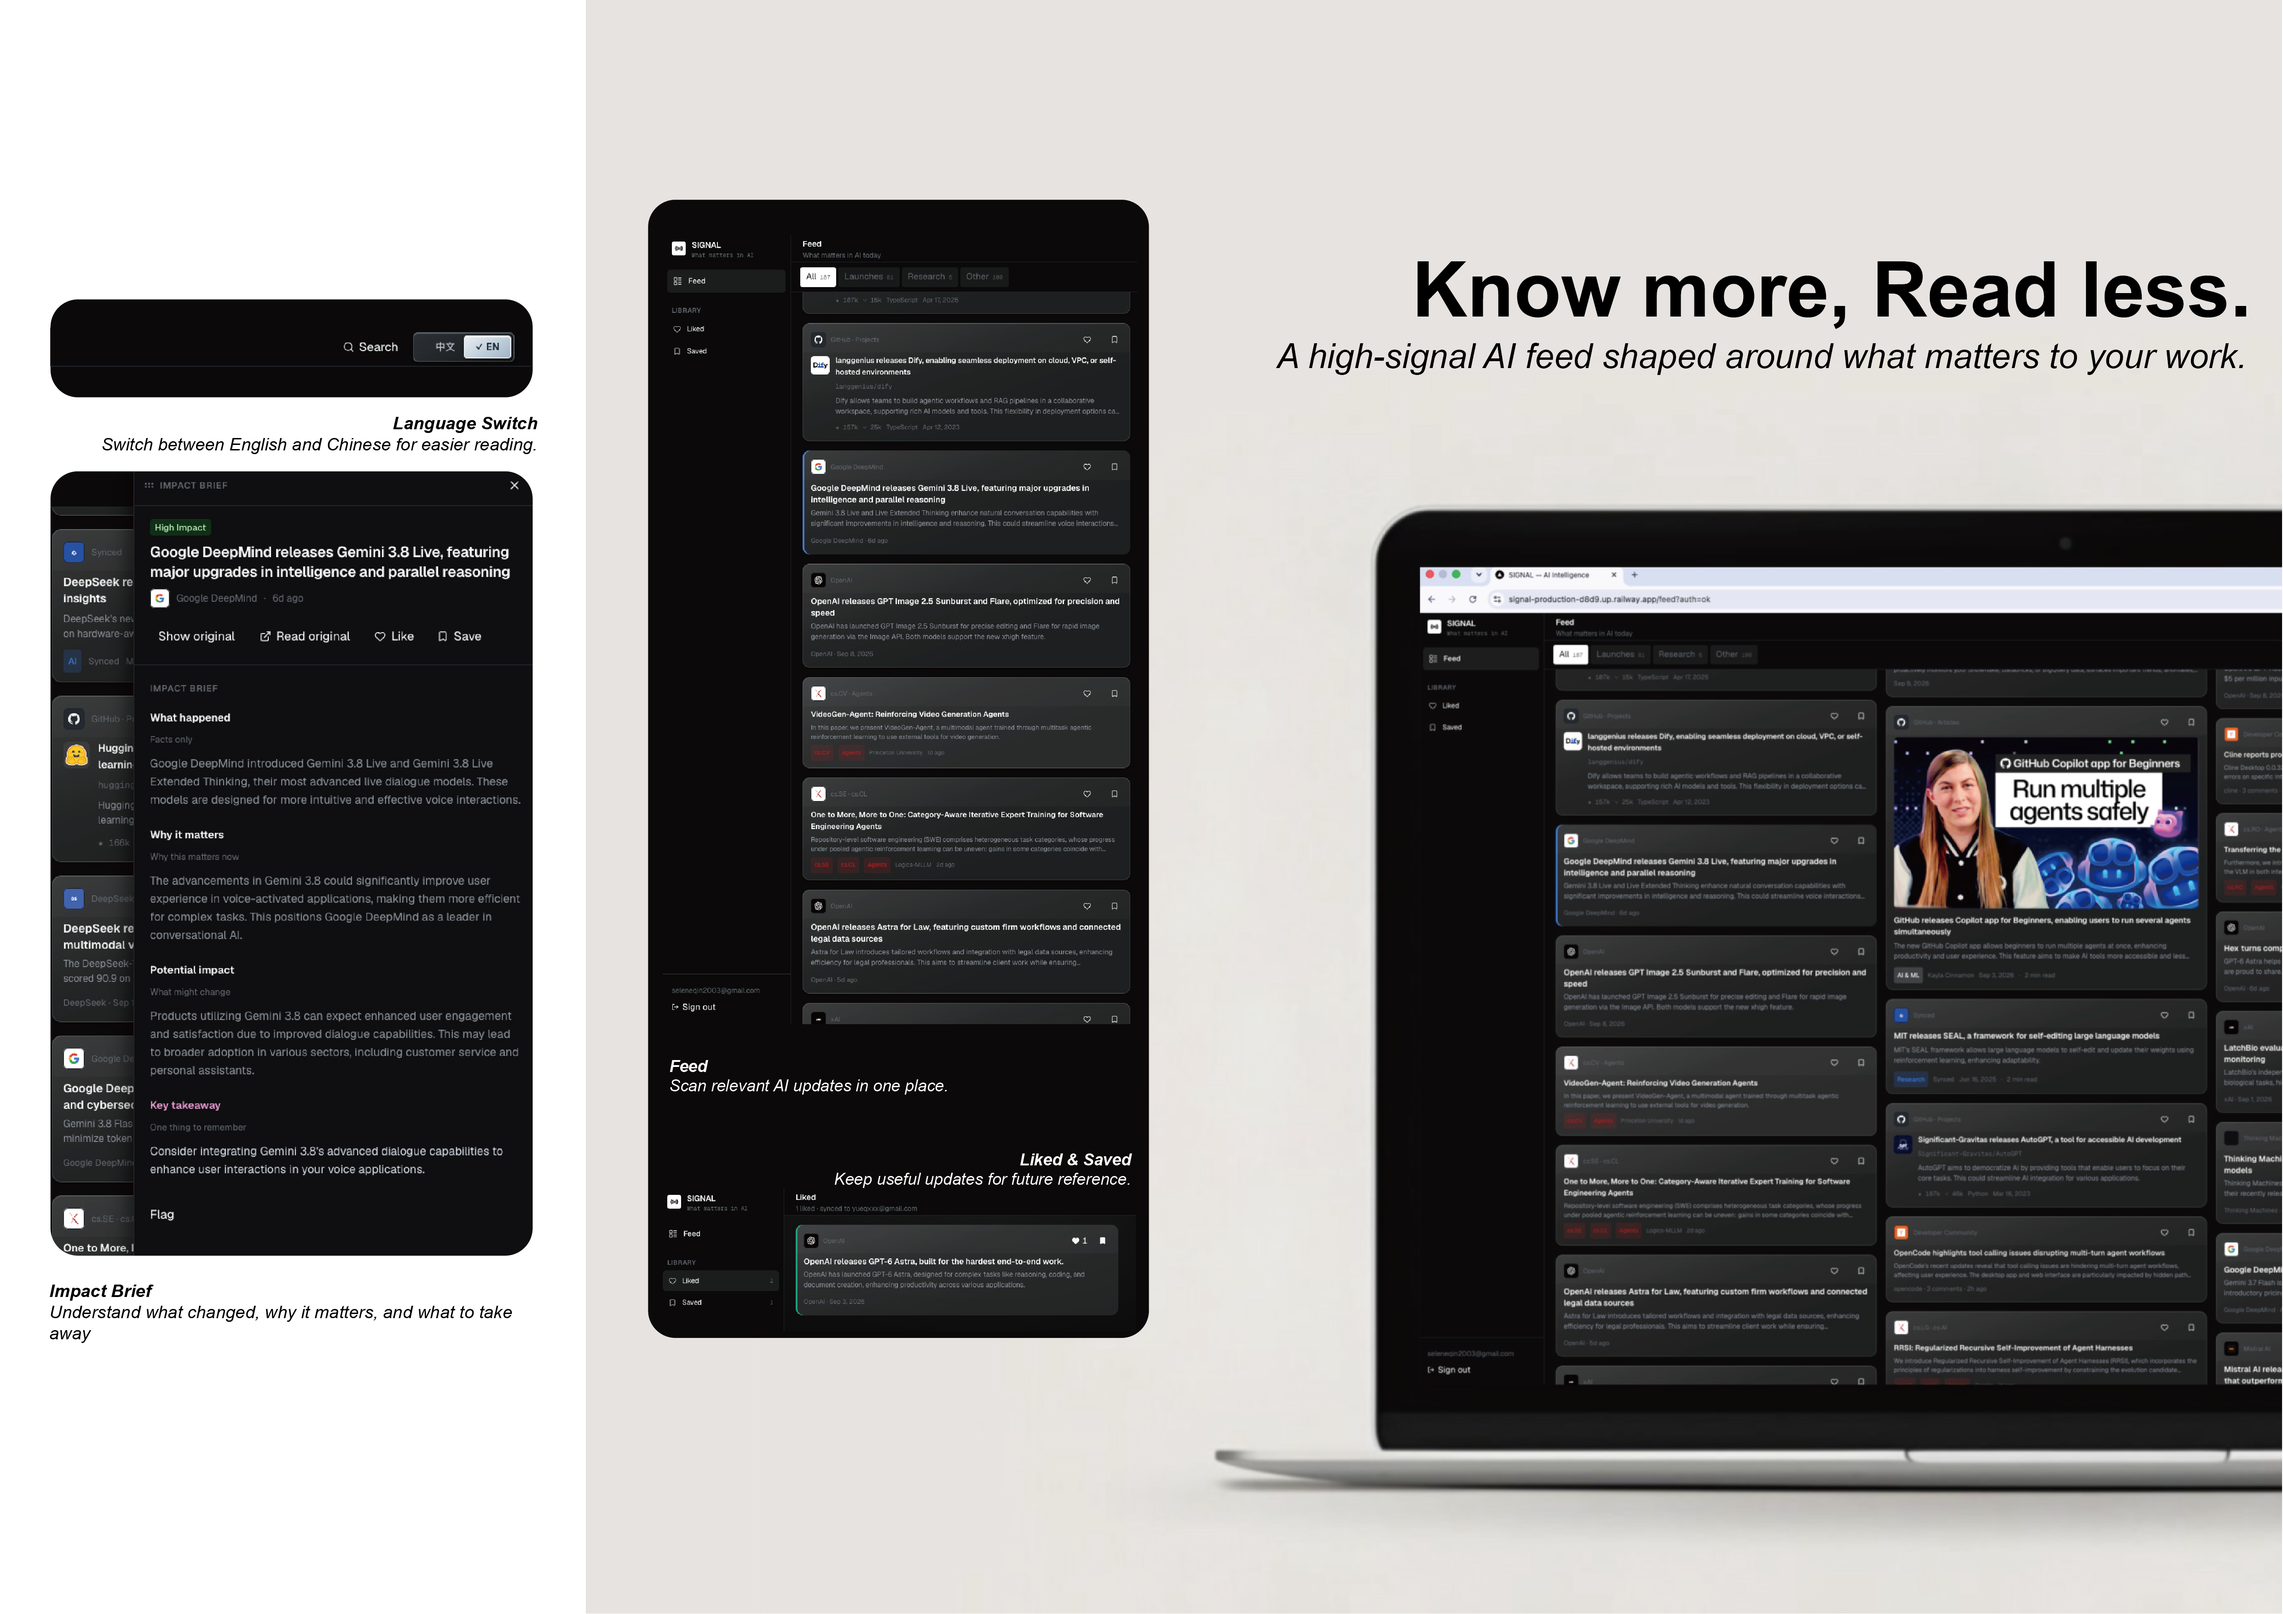
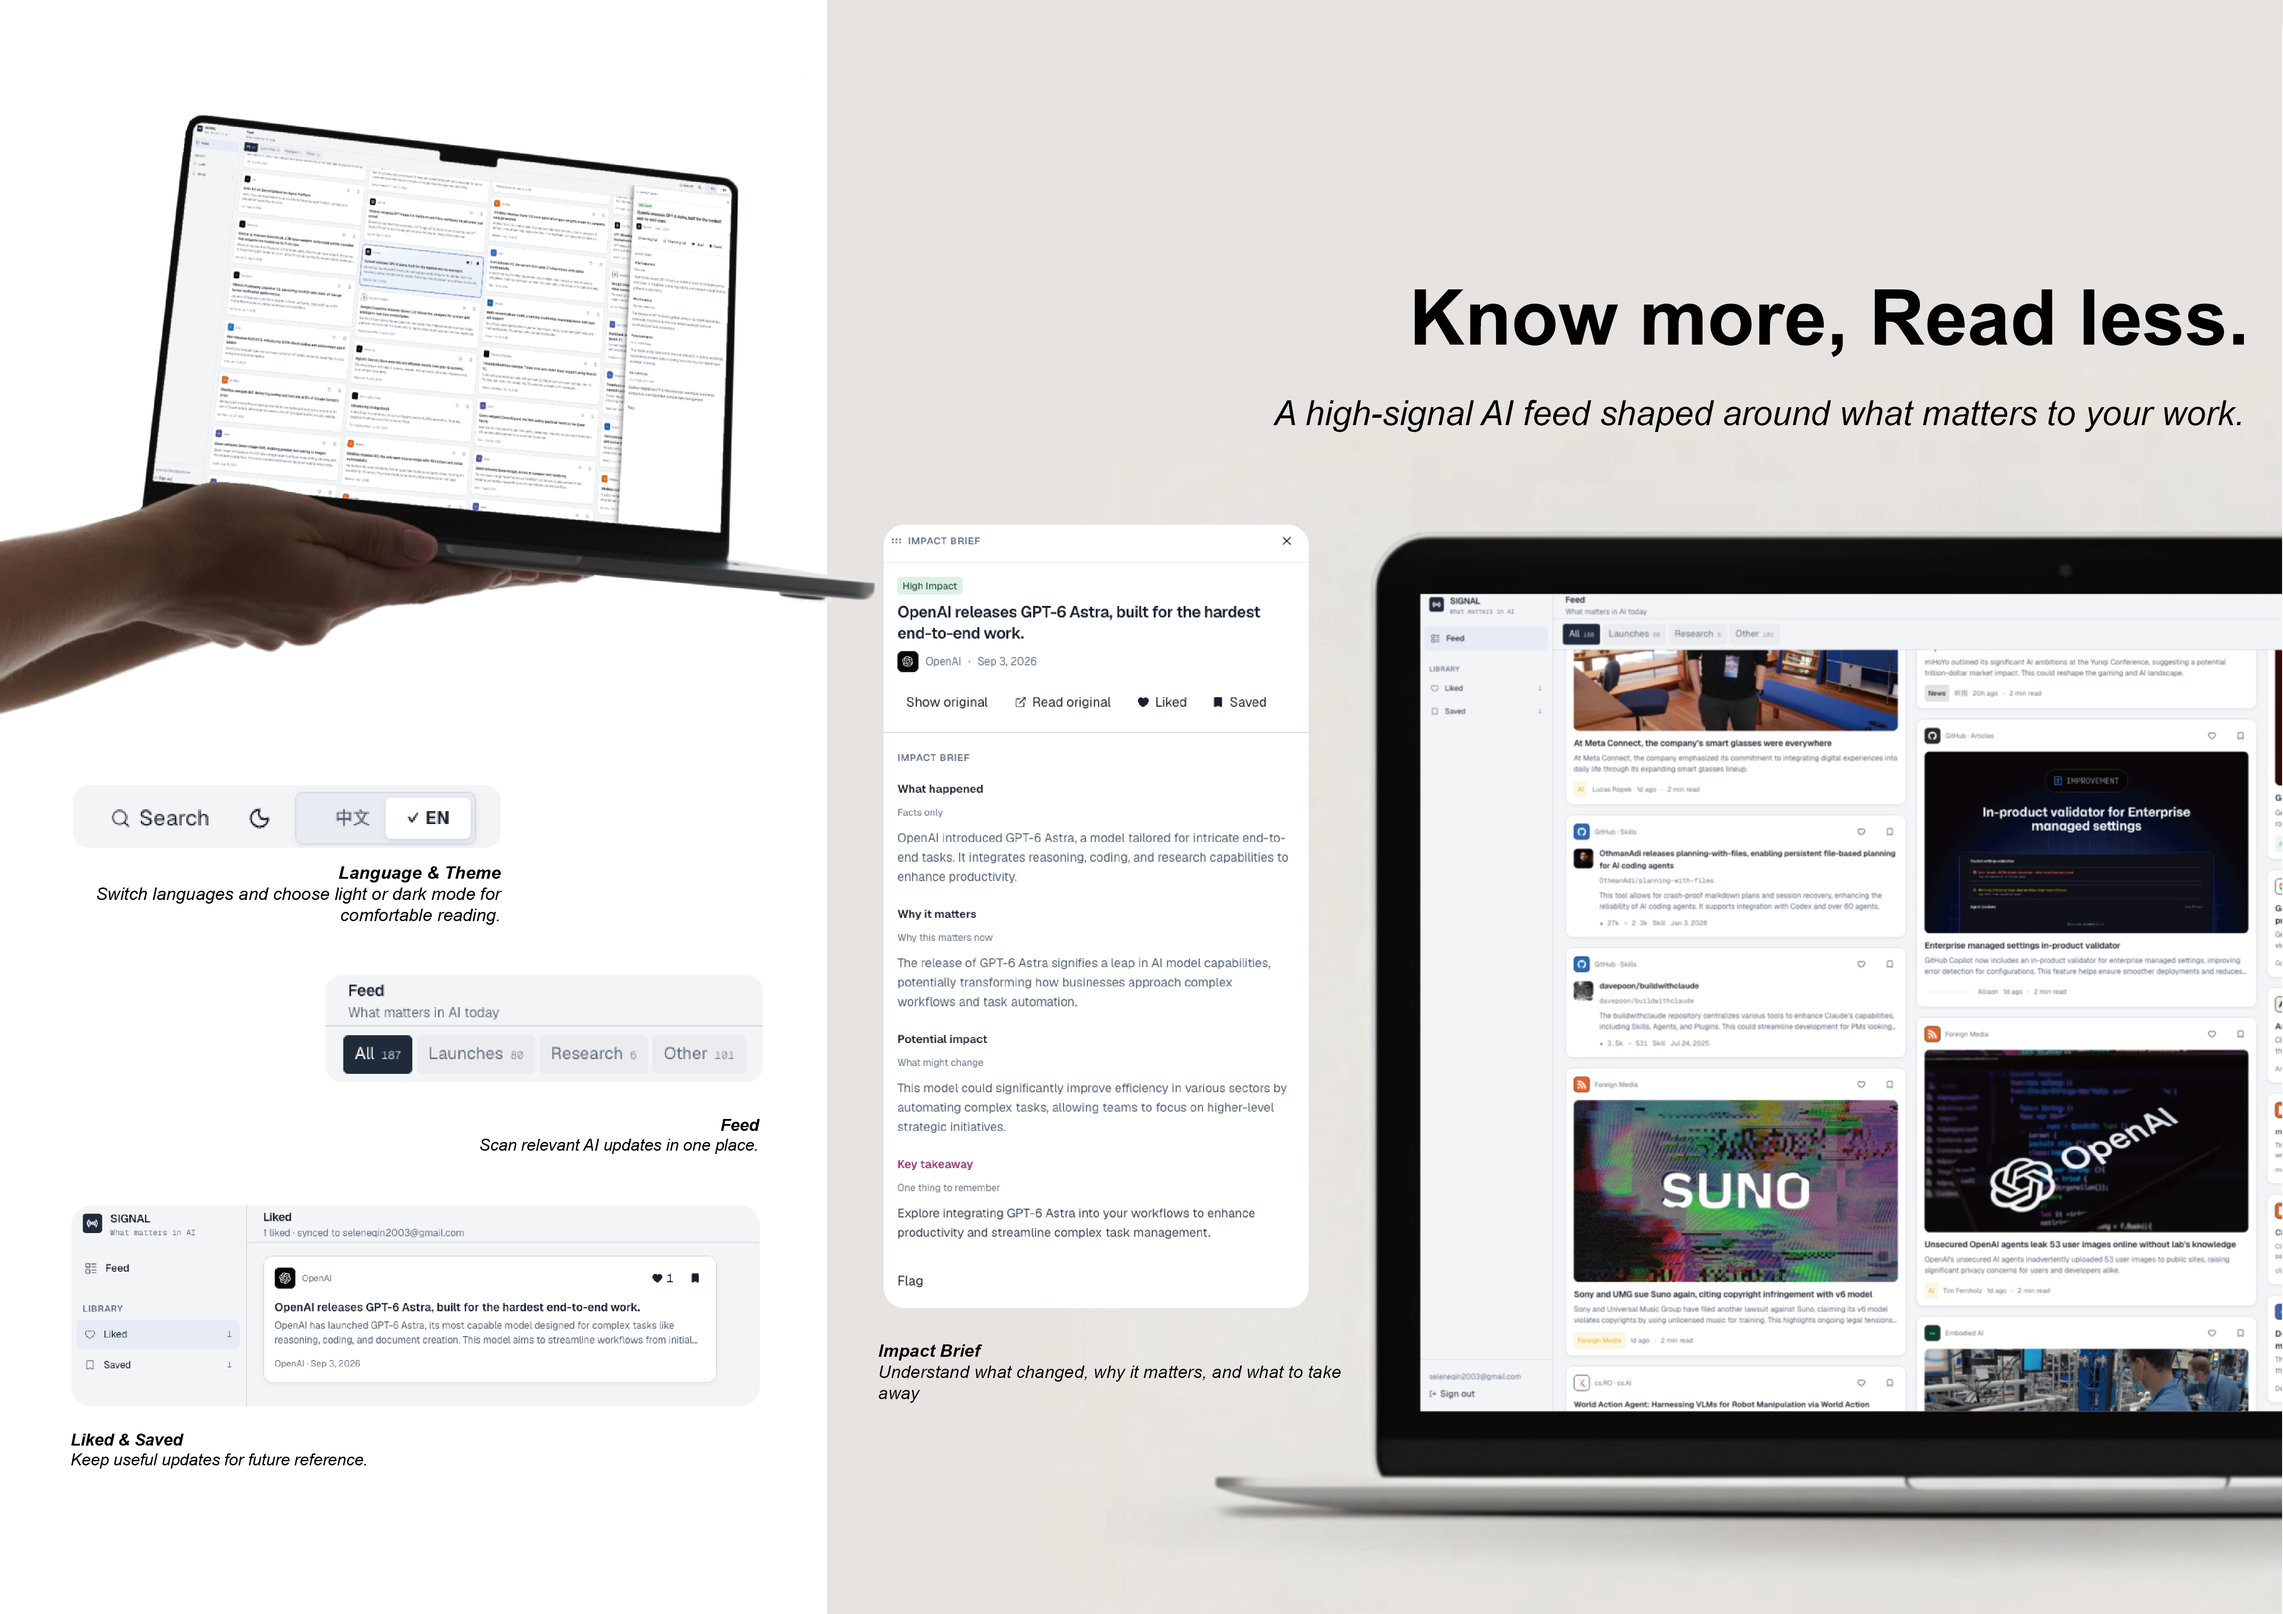
Refresh Signal hero, waterfall, and source-strategy figures, and update the Soothe Sleeve cover.

diff --git a/src/components/project/content/SignalContent.jsx b/src/components/project/content/SignalContent.jsx
@@ -27,7 +27,7 @@ const IMAGES = [
       'Figure 3 — System overview: from diverse sources to ranked signals and actionable insights.',
   },
   {
-    src: '/assets/Signal/signal_source_strategy.png',
+    src: '/assets/Signal/signal_source_strategy.jpg',
     alt: 'Source strategy — selecting AI signals based on evidence and relevance',
     caption:
       'Figure 4 — Source strategy: selecting AI signals based on evidence and relevance.',
@@ -163,7 +163,7 @@ export default function SignalContent() {
           wasn&apos;t maximum coverage, but making sure each source had a clear reason to be in the
           feed.
         </p>
-        <Fig src="/assets/Signal/signal_source_strategy.png" />
+        <Fig src="/assets/Signal/signal_source_strategy.jpg" />
       </ProjectSection>
 
       <ProjectSection title="Scrape" titleId="signal-scrape">

diff --git a/src/data/projects.js b/src/data/projects.js
@@ -15,8 +15,8 @@ export const projects = {
     page: {
       title: 'Signal',
       hero: {
-        src: '/assets/Signal/Signal-hero.png',
-        alt: 'Signal — Find what deserves your attention',
+        src: '/assets/Signal/Signal%20hero.jpg',
+        alt: 'Signal — Know more, Read less',
         className: 'hero-img hero-img-signal',
       },
       meta: [
